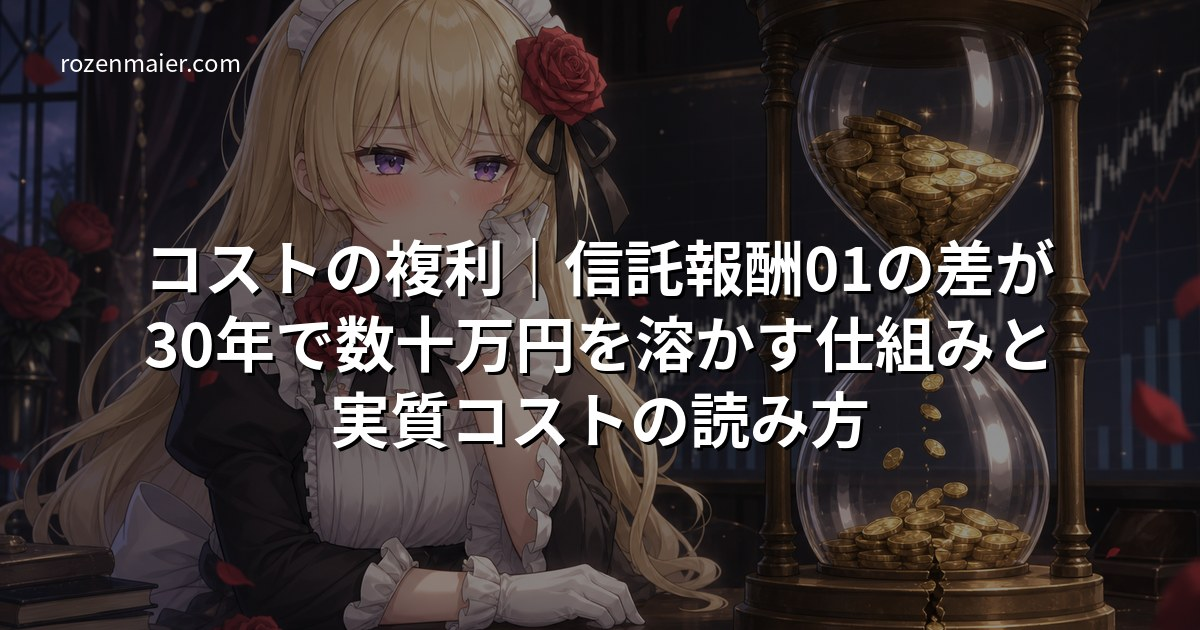
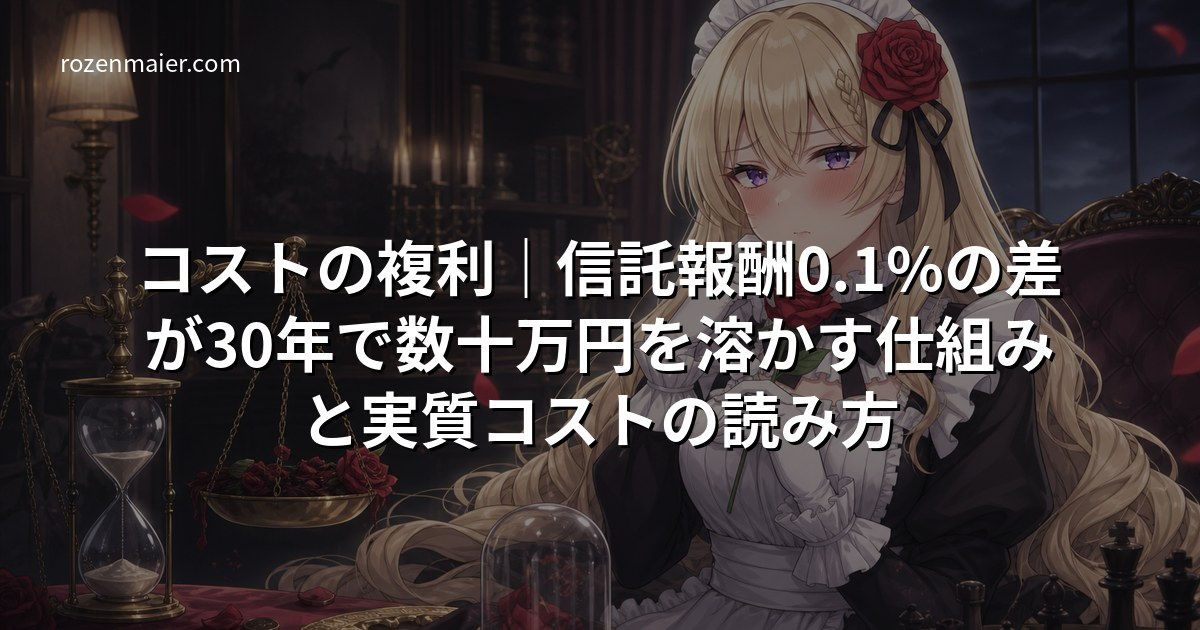
fix(thumbnails): タイトルの . % , + × などが消える不具合を修正
clean_title の許可文字リストに半角記号が入っておらず、
「0.1%」→「01」「61,500円」→「61500円」「VOO×QQQ」→「VOOQQQ」のように
サムネイル上でタイトルの意味が変わっていた。全197記事中19記事が該当。

該当記事のサムネイルを再生成（2026-08-22分）。

diff --git a/scripts/generate_thumbnails_v2.py b/scripts/generate_thumbnails_v2.py
@@ -156,9 +156,11 @@ def wrap_text(text: str, font, max_width: int, draw: ImageDraw.ImageDraw) -> lis
 
 
 def clean_title(title: str) -> str:
-    # 絵文字除去・クォート除去（&は保持）
+    # 絵文字除去・クォート除去
+    # 記号は意味を持つものを必ず残すこと。半角の . % , + × / ~ $ # を落とすと
+    # 「0.1%」→「01」、「61,500円」→「61500円」のように意味が変わる（2026-08-21 修正）
     title = re.sub(r'[\U00010000-\U0010ffff]', '', title)
-    title = re.sub(r'[^\w\s\u3000-\u9fff\u4e00-\u9fff\uff00-\uffef\u3040-\u309f\u30a0-\u30ff\-：:！!？?（）()【】「」・、。…|｜&]', '', title)
+    title = re.sub(r'[^\w\s\u3000-\u9fff\u4e00-\u9fff\uff00-\uffef\u3040-\u309f\u30a0-\u30ff\-：:！!？?（）()【】「」・、。…|｜&.%,+×/~$#]', '', title)
     return re.sub(r'\s+', ' ', title).strip().strip('"\'')
 
 
